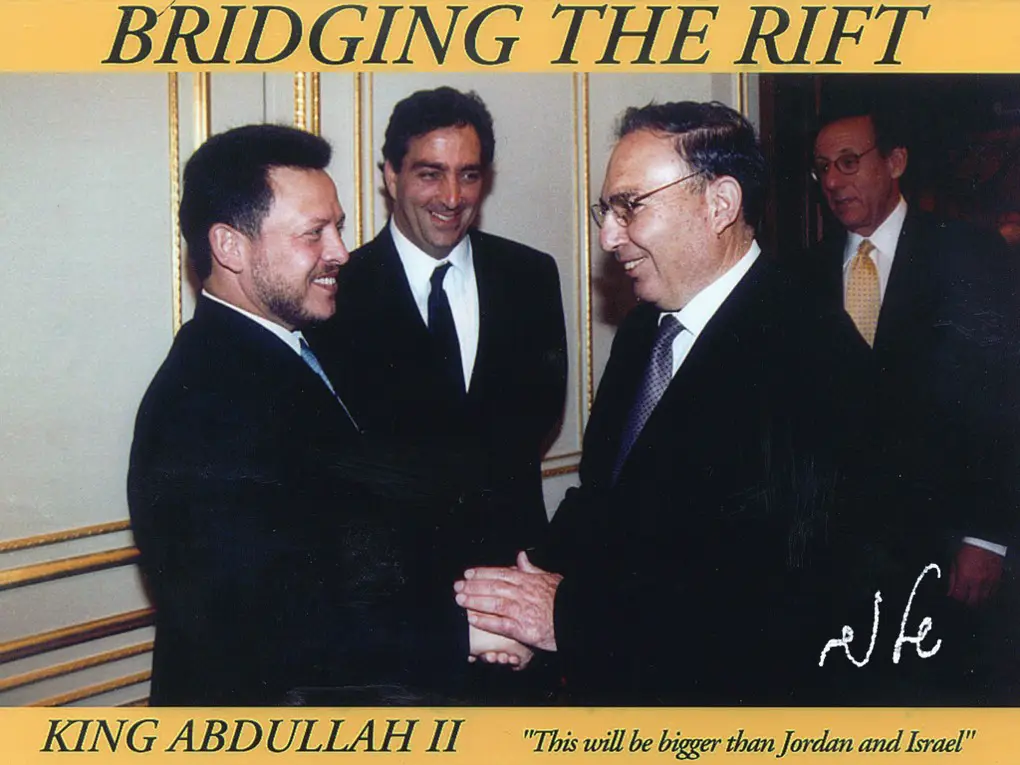
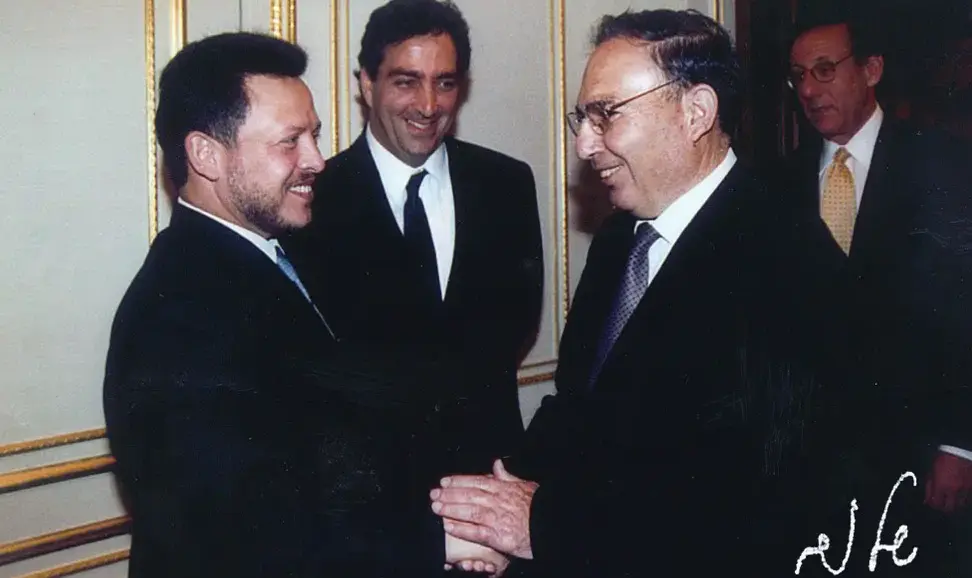
Crop the scanned brochure frame off the King Abdullah photo
Scanned all gallery images for baked-in borders; only this one had
a real frame (six auto-flagged were false positives from uniform
skies, verified visually and left untouched). Gallery builder now
supports per-image cache versions like the videos page.

diff --git a/images/gallery/gallery-data.js b/images/gallery/gallery-data.js
@@ -22,7 +22,7 @@ window.galleryPhotos = [
   { file: "shai-golda-meir-2.webp", caption: "שי עם גולדה מאיר – תמונה היסטורית" },
   { file: "shai-rabin.webp", caption: "שי בן אליהו עם ראש הממשלה יצחק רבין" },
   { file: "shai-rabin-tzur-1993.webp", caption: "שי עם רה\"מ יצחק רבין ושר החקלאות יעקב צור, 11.3.1993" },
-  { file: "shai-king-abdullah.webp", caption: "שי בן אליהו עם המלך עבדאללה השני" },
+  { file: "shai-king-abdullah.webp", v: 2, caption: "שי בן אליהו עם המלך עבדאללה השני" },
   { file: "shai-hillary-abdullah-rania.webp", caption: "שי בן אליהו עם הילרי קלינטון, המלך עבדאללה והמלכה רניה" },
   { file: "family-shimon-peres.webp", caption: "בני המשפחה עם הנשיא שמעון פרס בבית הנשיא" },
   { file: "elyakim-rubinstein.webp", caption: "השופט אליקים רובינשטיין" },

diff --git a/gallery.html b/gallery.html
@@ -73,7 +73,7 @@
     <div class="photog reveal-stagger" id="galleryGrid"></div>
   </div>
 
-  <script src="images/gallery/gallery-data.js?v=19"></script>
+  <script src="images/gallery/gallery-data.js?v=20"></script>
   <script>
     (function(){
       var photos = window.galleryPhotos || [];
@@ -82,7 +82,7 @@
       grid.innerHTML = photos.map(function(p, i){
         var cap = p.caption || '';
         var media = p.file
-          ? '<img src="images/gallery/' + encodeURIComponent(p.file) + '" alt="' + cap + '" loading="lazy" decoding="async">'
+          ? '<img src="images/gallery/' + encodeURIComponent(p.file) + (p.v ? '?v=' + p.v : '') + '" alt="' + cap + '" loading="lazy" decoding="async">'
           : '<div class="phic">&#128247;</div>';
         return '<div class="phi" role="button" tabindex="0" data-index="' + i + '" aria-label="הצגה מוגדלת: ' + cap + '"><div class="php">' + media + '</div><div class="phc">' + cap + '</div></div>';
       }).join('');
